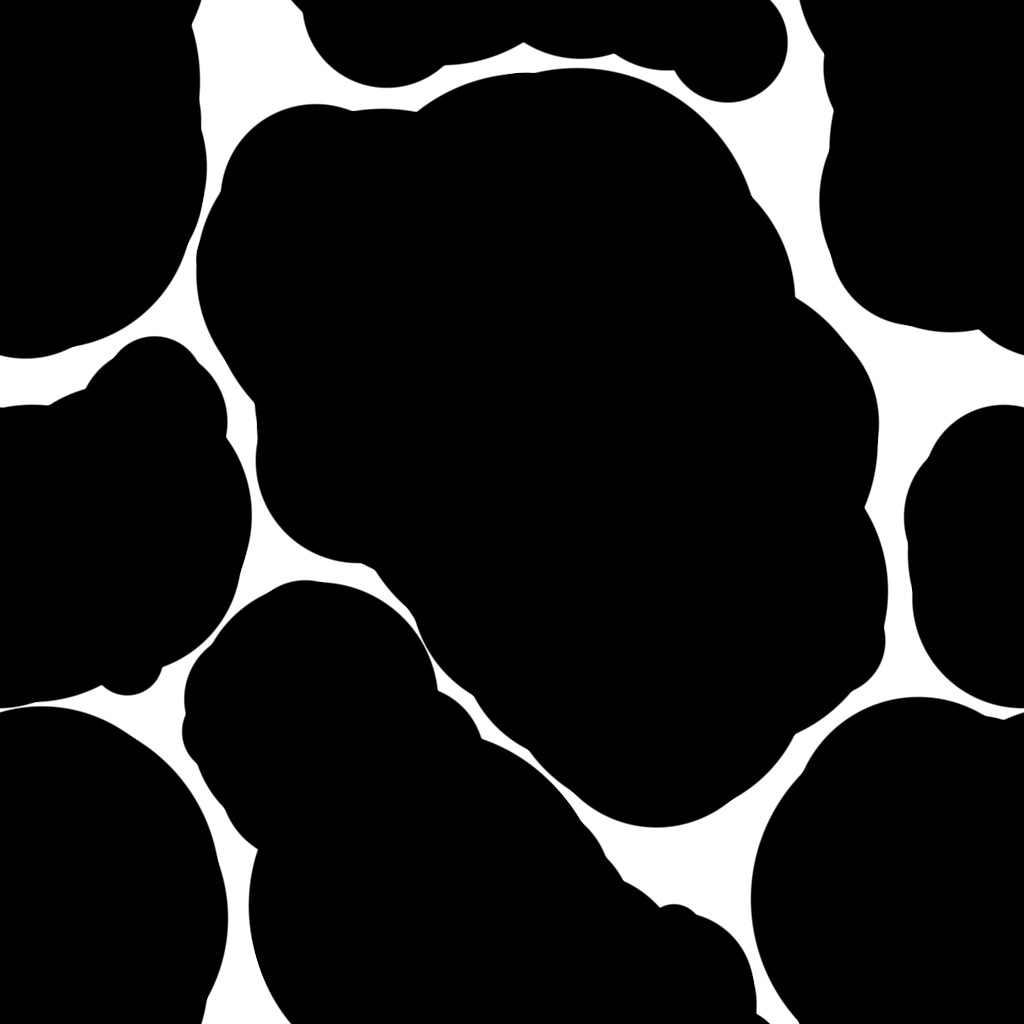
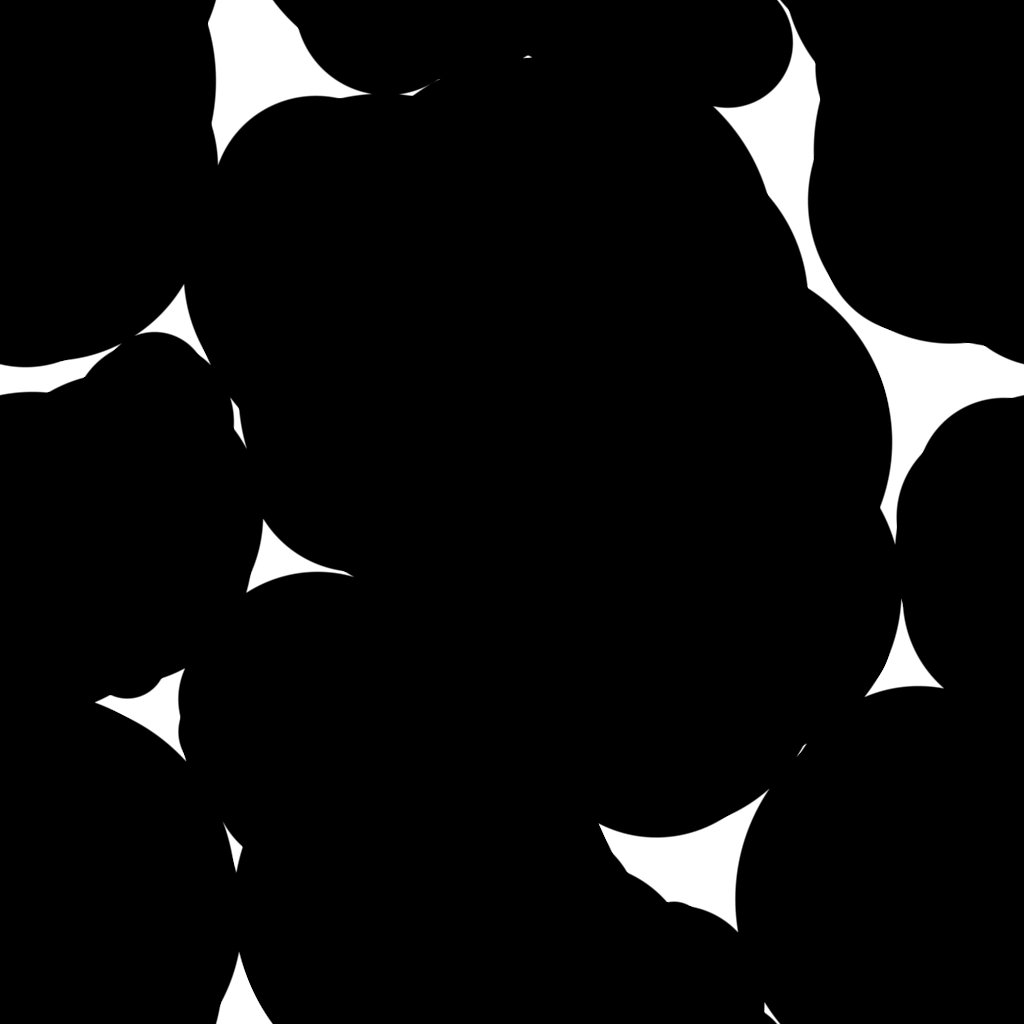
Menos espuma en el mar: manchas sueltas en vez de red
Dos perillas, y hacen falta las dos: el RADIO de los circulos sube de 1.05 a
1.14 —pasado el punto de percolacion la red blanca se parte en manchas
separadas— y la BALDOSA crece de ~2,5 a ~4 u de mundo, que es lo que mete mar
liso entre unas y otras. A 1.11 todavia hacia red; medido en captura.

diff --git a/tools/foam_ww.py b/tools/foam_ww.py
@@ -21,13 +21,16 @@ from PIL import Image
 
 SIZE = 1024
 BORDE = 0.002  # el smoothstep del original
-# LOS CIRCULOS SE HINCHAN UN PELO respecto al original. El dibujo es "todo
-# blanco MENOS los circulos", y con los radios tal cual el blanco sale al 15,6%
-# de la superficie: con el mar cubriendo la pantalla entera, tanta espuma se
-# lee como una RED. MEDIDO: 1.00 -> 15,6% | 1.05 -> 11,4% | 1.12 -> 6,5% (los
-# circulos estan al borde de la percolacion, asi que un pelo de radio se lleva
-# por delante la mitad del blanco: no subirlo a ojo).
-RADIO_MULT = 1.05
+# LOS CIRCULOS SE HINCHAN respecto al original. El dibujo es "todo blanco MENOS
+# los circulos", y con los radios tal cual el blanco sale al 15,6% de la
+# superficie: con el mar cubriendo la pantalla entera, tanta espuma se lee como
+# una RED de lineas blancas. MEDIDO: 1.00 -> 15,6% | 1.05 -> 11,4% |
+# 1.12 -> 6,5%. Los circulos estan al borde de la PERCOLACION, asi que un pelo
+# de radio se lleva por delante la mitad del blanco (no subirlo a ojo) — y ahi
+# esta la gracia: pasado el punto de rotura, la red se parte en manchas SUELTAS
+# con mar liso entre ellas, que es lo que hace que parezca que hay poca espuma.
+# A 1.11 todavia hace red; a 1.14 ya son manchas separadas.
+RADIO_MULT = 1.14
 
 # Los 75 circulos del shader, tal cual: (x, y, s) con radio = sqrt(s).
 CIRCULOS = [

diff --git a/CLAUDE.md b/CLAUDE.md
@@ -2450,15 +2450,19 @@ fondo de prep_screen/tienda/inventario (`scene_backdrop`). El
   el mar entero contra un material plano.
 - **EL RADIO DE LOS CÍRCULOS ES UNA PERILLA DELICADA** (`RADIO_MULT`): el
   dibujo es "todo blanco MENOS los círculos", y están al borde de la
-  percolación, así que un pelo de radio se lleva por delante la mitad del
-  blanco. MEDIDO: 1.00 → 15,6% de espuma · 1.05 → 11,4% · 1.12 → 6,5%. Va a
-  **1.05**: con el 15,6% del original el mar se lee como una RED de líneas
-  blancas.
+  PERCOLACIÓN, así que un pelo de radio se lleva por delante la mitad del
+  blanco. MEDIDO: 1.00 → 15,6% de espuma · 1.05 → 11,4% · 1.12 → 6,5%. Y ahí
+  está la gracia: **pasado el punto de rotura la red se parte en manchas
+  SUELTAS con mar liso entre ellas**, que es lo que hace que parezca que hay
+  poca espuma. A 1.11 todavía hace red; va a **1.14**, ya en manchas sueltas.
+  Con el 15,6% del original el mar se lee como una rejilla de líneas blancas.
 - **LA ESCALA (`tile`) SE MIDE CONTRA ESTA CÁMARA, no contra el mundo**: el
   juego enseña solo **9,5 u de ancho**, así que la espuma al tamaño "de verdad"
   del original salía en manchas de medio palmo y el mar parecía una vaca. Una
-  baldosa cada ~2,5 u en las tres pantallas (mapa 190·1.6, nivel 144, fondos
-  192; el shader multiplica por 0.25 por dentro, como el original).
+  baldosa cada ~4 u en las tres pantallas (mapa 190·1.0, nivel 90, fondos 120;
+  el shader multiplica por 0.25 por dentro, como el original). El TAMAÑO de la
+  baldosa es lo que SEPARA unas manchas de espuma de otras y el radio lo que
+  las ADELGAZA: para "menos espuma" hacen falta las dos cosas.
 - **EL OLEAJE ES DESPLAZAMIENTO DE VÉRTICE**: los planos del mar necesitan
   `subdivide_width/depth` (48 el mapa, 36 el nivel, 40 los fondos) o no se
   mueve nada — un PlaneMesh a pelo son dos triángulos.
